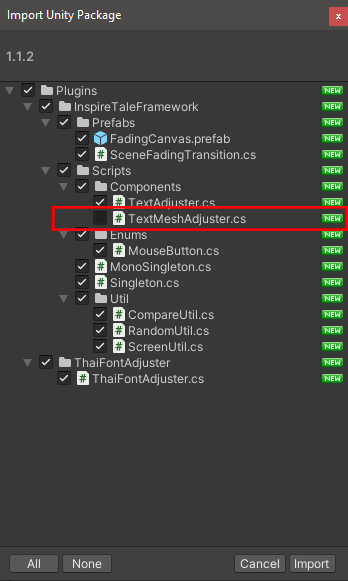
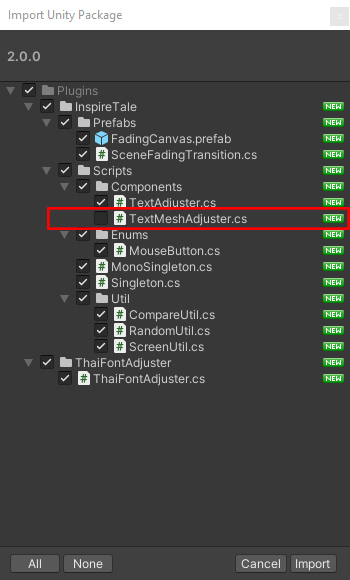
Update: package description

diff --git a/README.md b/README.md
@@ -17,18 +17,22 @@ If you didn't use TextMeshPro you have to uncheck TextMeshAdjuster to prevent er
 ![UnCheckTextMeshAdjuster](https://github.com/Sahapat/InspireTaleUnityFramework/blob/master/ScreenShots/UnCheckTextMeshAdjuster.jpg)
 
 2.1 Click on **Assets** >> **Import Package** >> **Custom Package** <br>
-2.2 Then Select InspireTaleFramework package to import.
+2.2 Then Select InspireTale Utils package to import.
 
 3. Before using, Import InspierTaleFramework into your script <br>
     ```csharp
-    using InspireTaleFramework;
+    using InspireTale.Utils;
     ```
 
 ## Text Adjusters
 In Unity, there is a position bug on display some Thai character. Then we got this method from [SaladLab](https://github.com/SaladLab/Unity3D.ThaiFontAdjuster) to shift the unicode
 to use character in correct position. But when we adjust a string the unicode will be change from expect. I create this component to manage adjusted string. <br>
 
+<<<<<<< Updated upstream
 For using you have to attach component to the object.
+=======
+Transition will be in prefab canvas, There are in **InspireTale** > **Prefabs** directory. For using, Drag the prefab into your scene and control via Instance of transition controller.
+>>>>>>> Stashed changes
 
 ### Text Adjuster
 This component is for UnityEngine.UI.Text<br>
